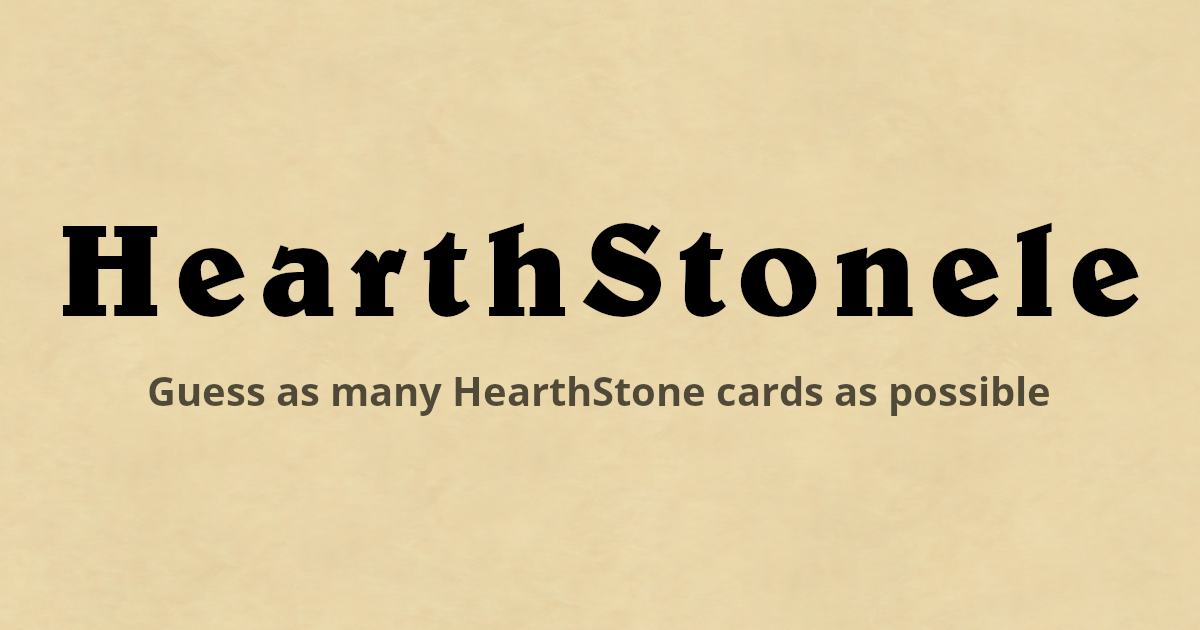
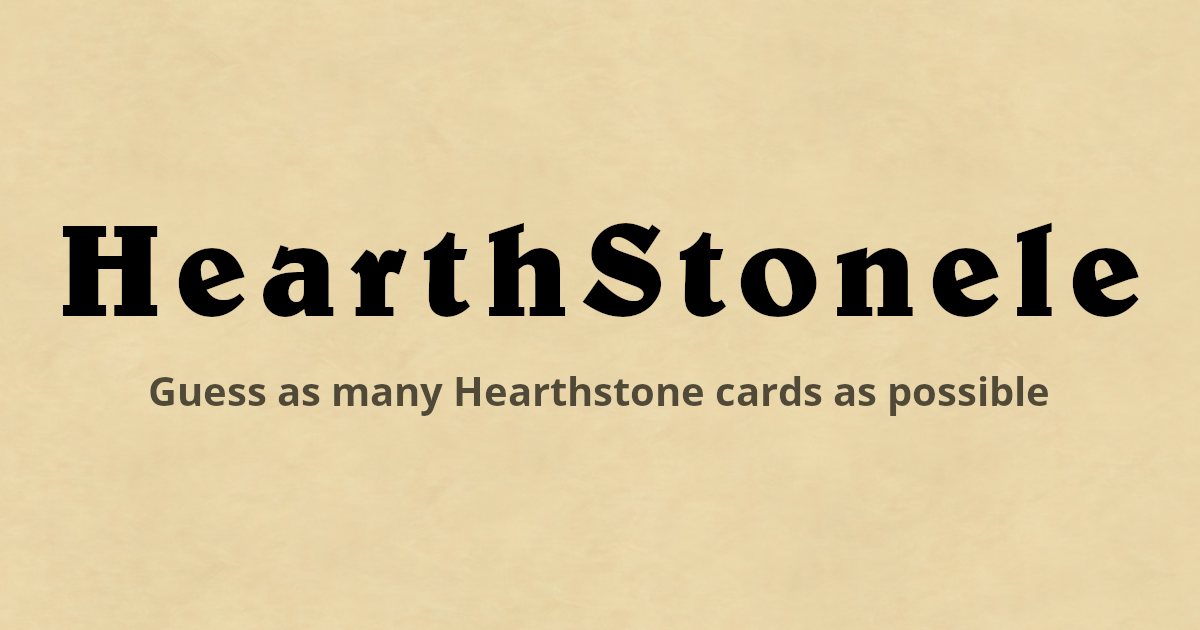
fix(*): fix typo in Hearthstone name

Changed region(s): [[0.1233, 0.6032, 0.5858, 0.6635], [0.6167, 0.6032, 0.8633, 0.6635]]

diff --git a/locales.js b/locales.js
@@ -9,11 +9,11 @@
     var locales = {
         fr_FR: {
             submitButton: 'Envoyer',
-            guessSubtitle: 'Devinez un maximum de cartes HearthStone&nbsp;!',
-            rules1: 'Vous avez 30 points de vie. Utilisez-les pour trouver des cartes HearthStone à partir de leur texte d\'ambiance.<br />Chaque erreur vous inflige 1 point de dégât, mais chaque bonne réponse vous soigne de 3.',
+            guessSubtitle: 'Devinez un maximum de cartes Hearthstone&nbsp;!',
+            rules1: 'Vous avez 30 points de vie. Utilisez-les pour trouver des cartes Hearthstone à partir de leur texte d\'ambiance.<br />Chaque erreur vous inflige 1 point de dégât, mais chaque bonne réponse vous soigne de 3.',
             rules2: 'Pour chaque erreur, vous récupérez des indications sur les statistiques de la carte à rechercher :',
             rules3: 'Vous pouvez aussi payer des points de vie pour récupérer des indices supplémentaires sur la classe, la rareté etc.',
-            howManyCanYouGuess: 'Combien de cartes HearthStone pouvez-vous deviner avant de perdre tous vos points de vie&nbsp;?',
+            howManyCanYouGuess: 'Combien de cartes Hearthstone pouvez-vous deviner avant de perdre tous vos points de vie&nbsp;?',
             rulesButton: 'Jouer !',
             gameBy: 'Un jeu par ',
             statsExplanation: 'Ici, nous apprenons que la carte à rechercher a un coût en mana de 6, qu\'il n\'y a pas de 9 dans ses stats et que le 4 est présent mais mal placé. On peut donc déduire que la vie (si c\'est un serviteur), l\'armure (si c\'est un héro) ou la durabiltié (si c\'est une arme) de la carte à trouver est de 4. Peut-être <a href="https://playhearthstone.com/fr-fr/cards/59555-forest-warden-omu" target="_blank">Gardienne de la forêt Omu</a>&nbsp;?',
@@ -87,11 +87,11 @@
         },
         en_US: {
             submitButton: 'Submit',
-            guessSubtitle: 'Guess as many HearthStone cards as possible!',
-            rules1: 'You have 30 health points. Use them to find HearthStone cards from their flavor text.<br />Each error deals 1 damage to you, but each good guess restores 3 health.',
+            guessSubtitle: 'Guess as many Hearthstone cards as possible!',
+            rules1: 'You have 30 health points. Use them to find Hearthstone cards from their flavor text.<br />Each error deals 1 damage to you, but each good guess restores 3 health.',
             rules2: 'For each error, you get some indics about the card stats:',
             rules3: 'You can also take damage to earn some clues about card class, rarity etc.',
-            howManyCanYouGuess: 'How many HearthStone cards can you guess before loosing all your HPs?',
+            howManyCanYouGuess: 'How many Hearthstone cards can you guess before loosing all your HPs?',
             rulesButton: 'Play!',
             gameBy: 'A game by ',
             statsExplanation: 'Here, we learn that the card to find has its mana cost equals to 6. There are no 9 in its stats, and there is a 4 but this one is in the wrong spot. We can deduce that the health (if it\'s a minion), the armor (if it\'s an hero) or the durability (if it\'s a weapon) is 4. Maybe <a href="https://playhearthstone.com/en-us/cards/59555-forest-warden-omu" target="_blank">Forest Warden Omu</a>?',

diff --git a/index.html b/index.html
@@ -11,24 +11,24 @@
         <meta property="og:type" content="website" />
         <meta property="og:url" content="https://adrien-gueret.github.io/hearthstonele/" />
         <meta property="og:title" content="HearthStonele" />
-        <meta property="og:description" content="Devinez un maximum de cartes HearthStone !" />
+        <meta property="og:description" content="Devinez un maximum de cartes Hearthstone !" />
         <meta property="og:image" content="https://adrien-gueret.github.io/hearthstonele/images/cover.png" />
 
         <meta property="twitter:card" content="summary_large_image" />
         <meta property="twitter:url" content="https://adrien-gueret.github.io/hearthstonele/" />
         <meta property="twitter:title" content="HearthStonele" />
-        <meta property="twitter:description" content="Devinez un maximum de cartes HearthStone !" />
+        <meta property="twitter:description" content="Devinez un maximum de cartes Hearthstone !" />
         <meta property="twitter:image" content="https://adrien-gueret.github.io/hearthstonele/images/cover.png" />
     </head>
     <body>
         <header id="header">
             <h1>HearthStonele</h1>
-            <h2 id="guessSubtitle">Devinez un maximum de cartes HearthStone !</h2>
+            <h2 id="guessSubtitle">Devinez un maximum de cartes Hearthstone !</h2>
         </header>
 
         <section id="rules">
             <p id="rules1">
-                Vous avez 30 points de vie. Utilisez-les pour trouver des cartes HearthStone à partir de leur texte d'ambiance.<br />
+                Vous avez 30 points de vie. Utilisez-les pour trouver des cartes Hearthstone à partir de leur texte d'ambiance.<br />
                 Chaque erreur vous inflige 1 point de dégât,
                 mais chaque bonne réponse vous soigne de 3 points de vie.
             </p>
@@ -66,7 +66,7 @@
             </p>
 
             <p class="rulesTeaser">
-                <strong id="howManyCanYouGuess">Combien de cartes HearthStone pouvez-vous deviner avant de perdre tous vos points de vie&nbsp;?</strong>
+                <strong id="howManyCanYouGuess">Combien de cartes Hearthstone pouvez-vous deviner avant de perdre tous vos points de vie&nbsp;?</strong>
             </p>
 
             <p class="rulesButtonContainer">
